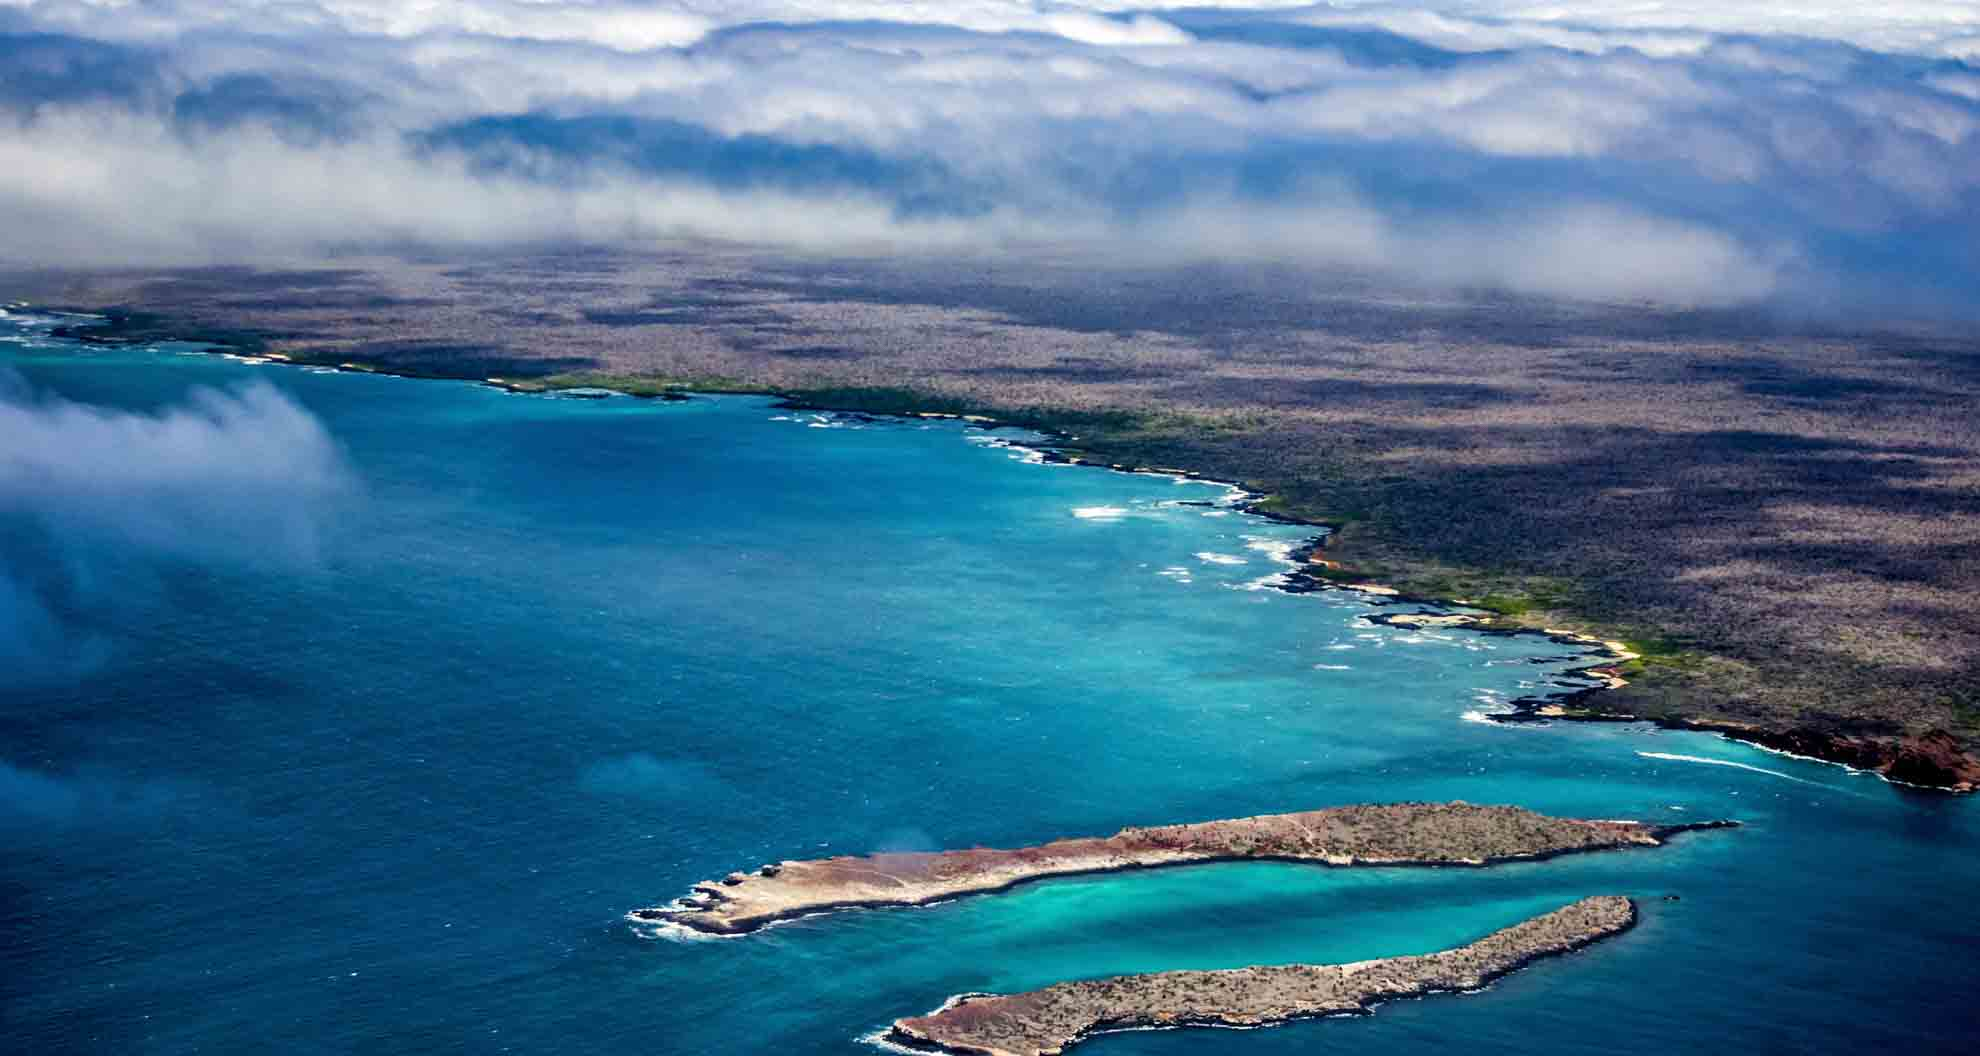
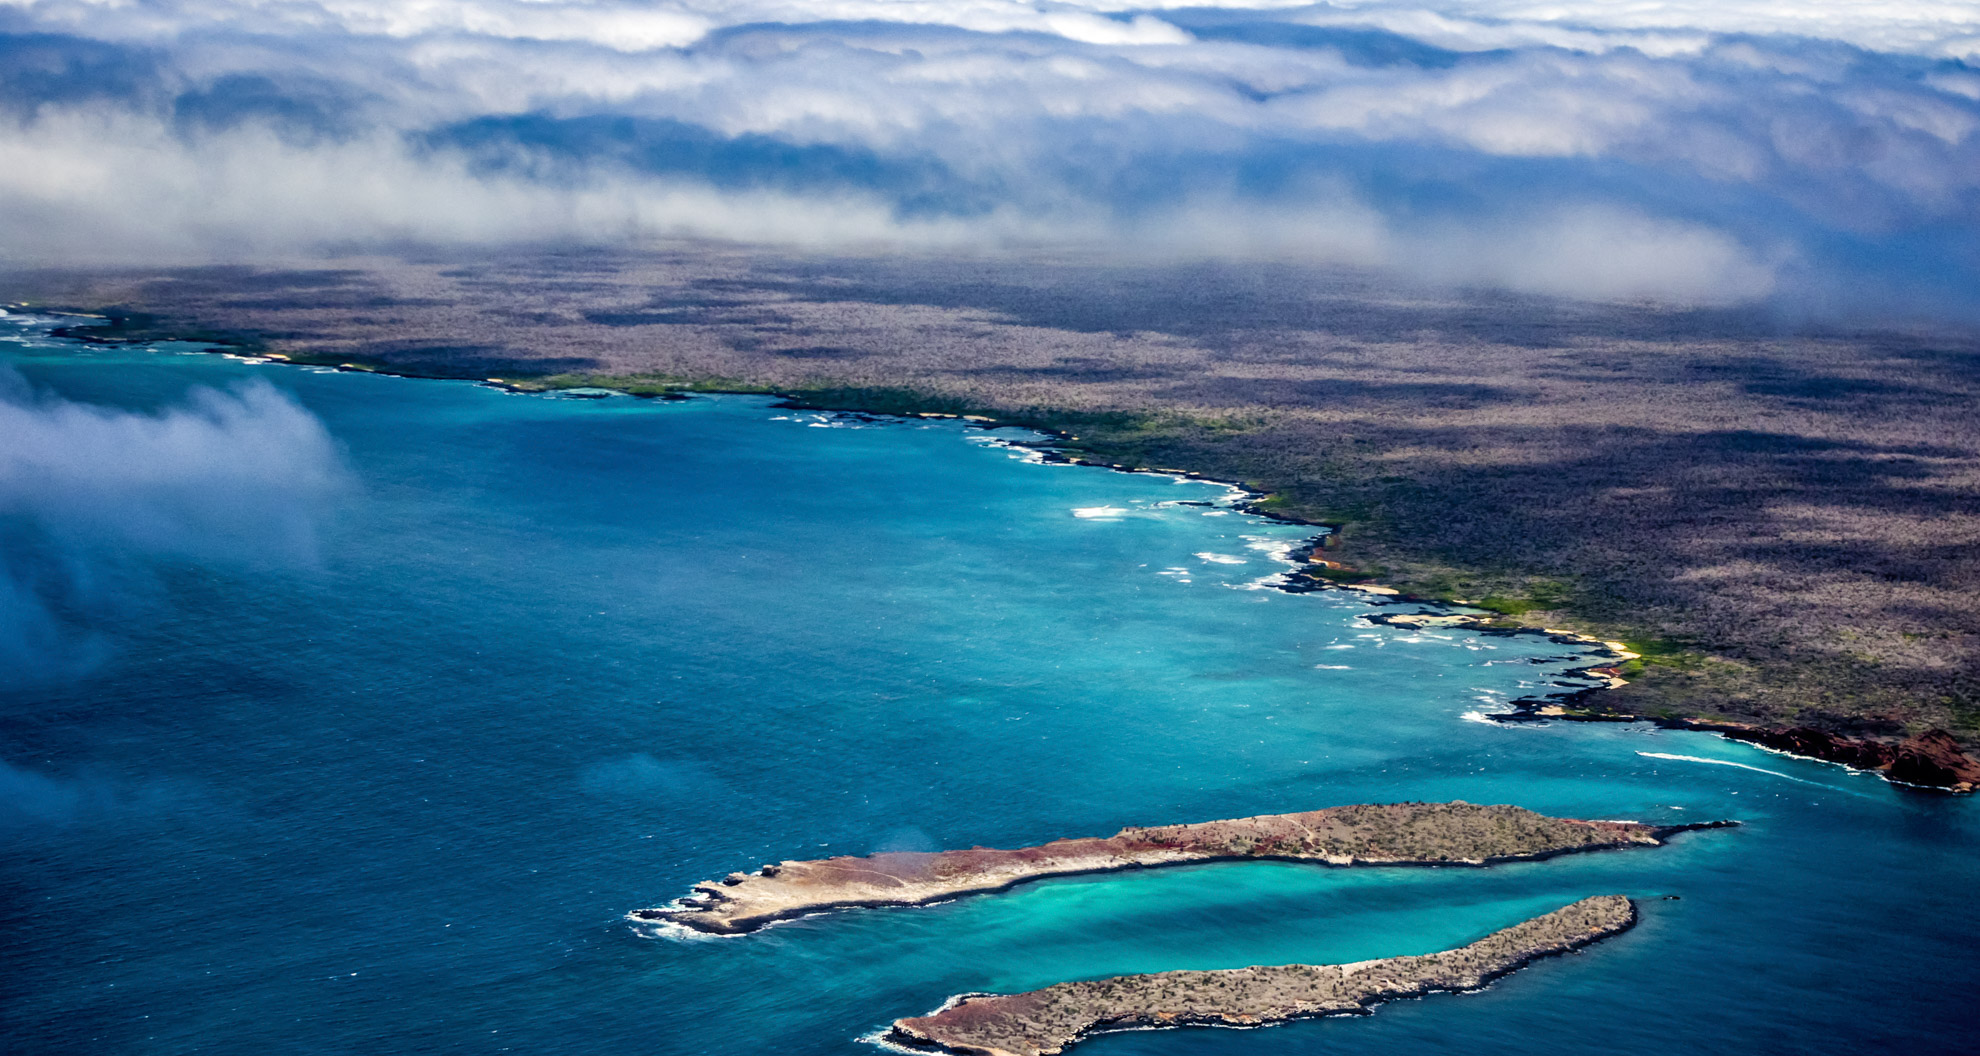
pics

diff --git a/galap.html b/galap.html
@@ -77,7 +77,7 @@
 			<!-- End Header Area -->
 
 			<!-- start COVER STORY  Area -->
-			<section class="banner-area relative" id="home" data-parallax="scroll" data-image-src="pics/ecuador/island.JPG">
+			<section class="banner-area relative" id="home" data-parallax="scroll" data-image-src="pics/ecuador/islands.JPG">
 				<div class=""></div>
 				<div class="container">
 					<div class="row fullscreen">
